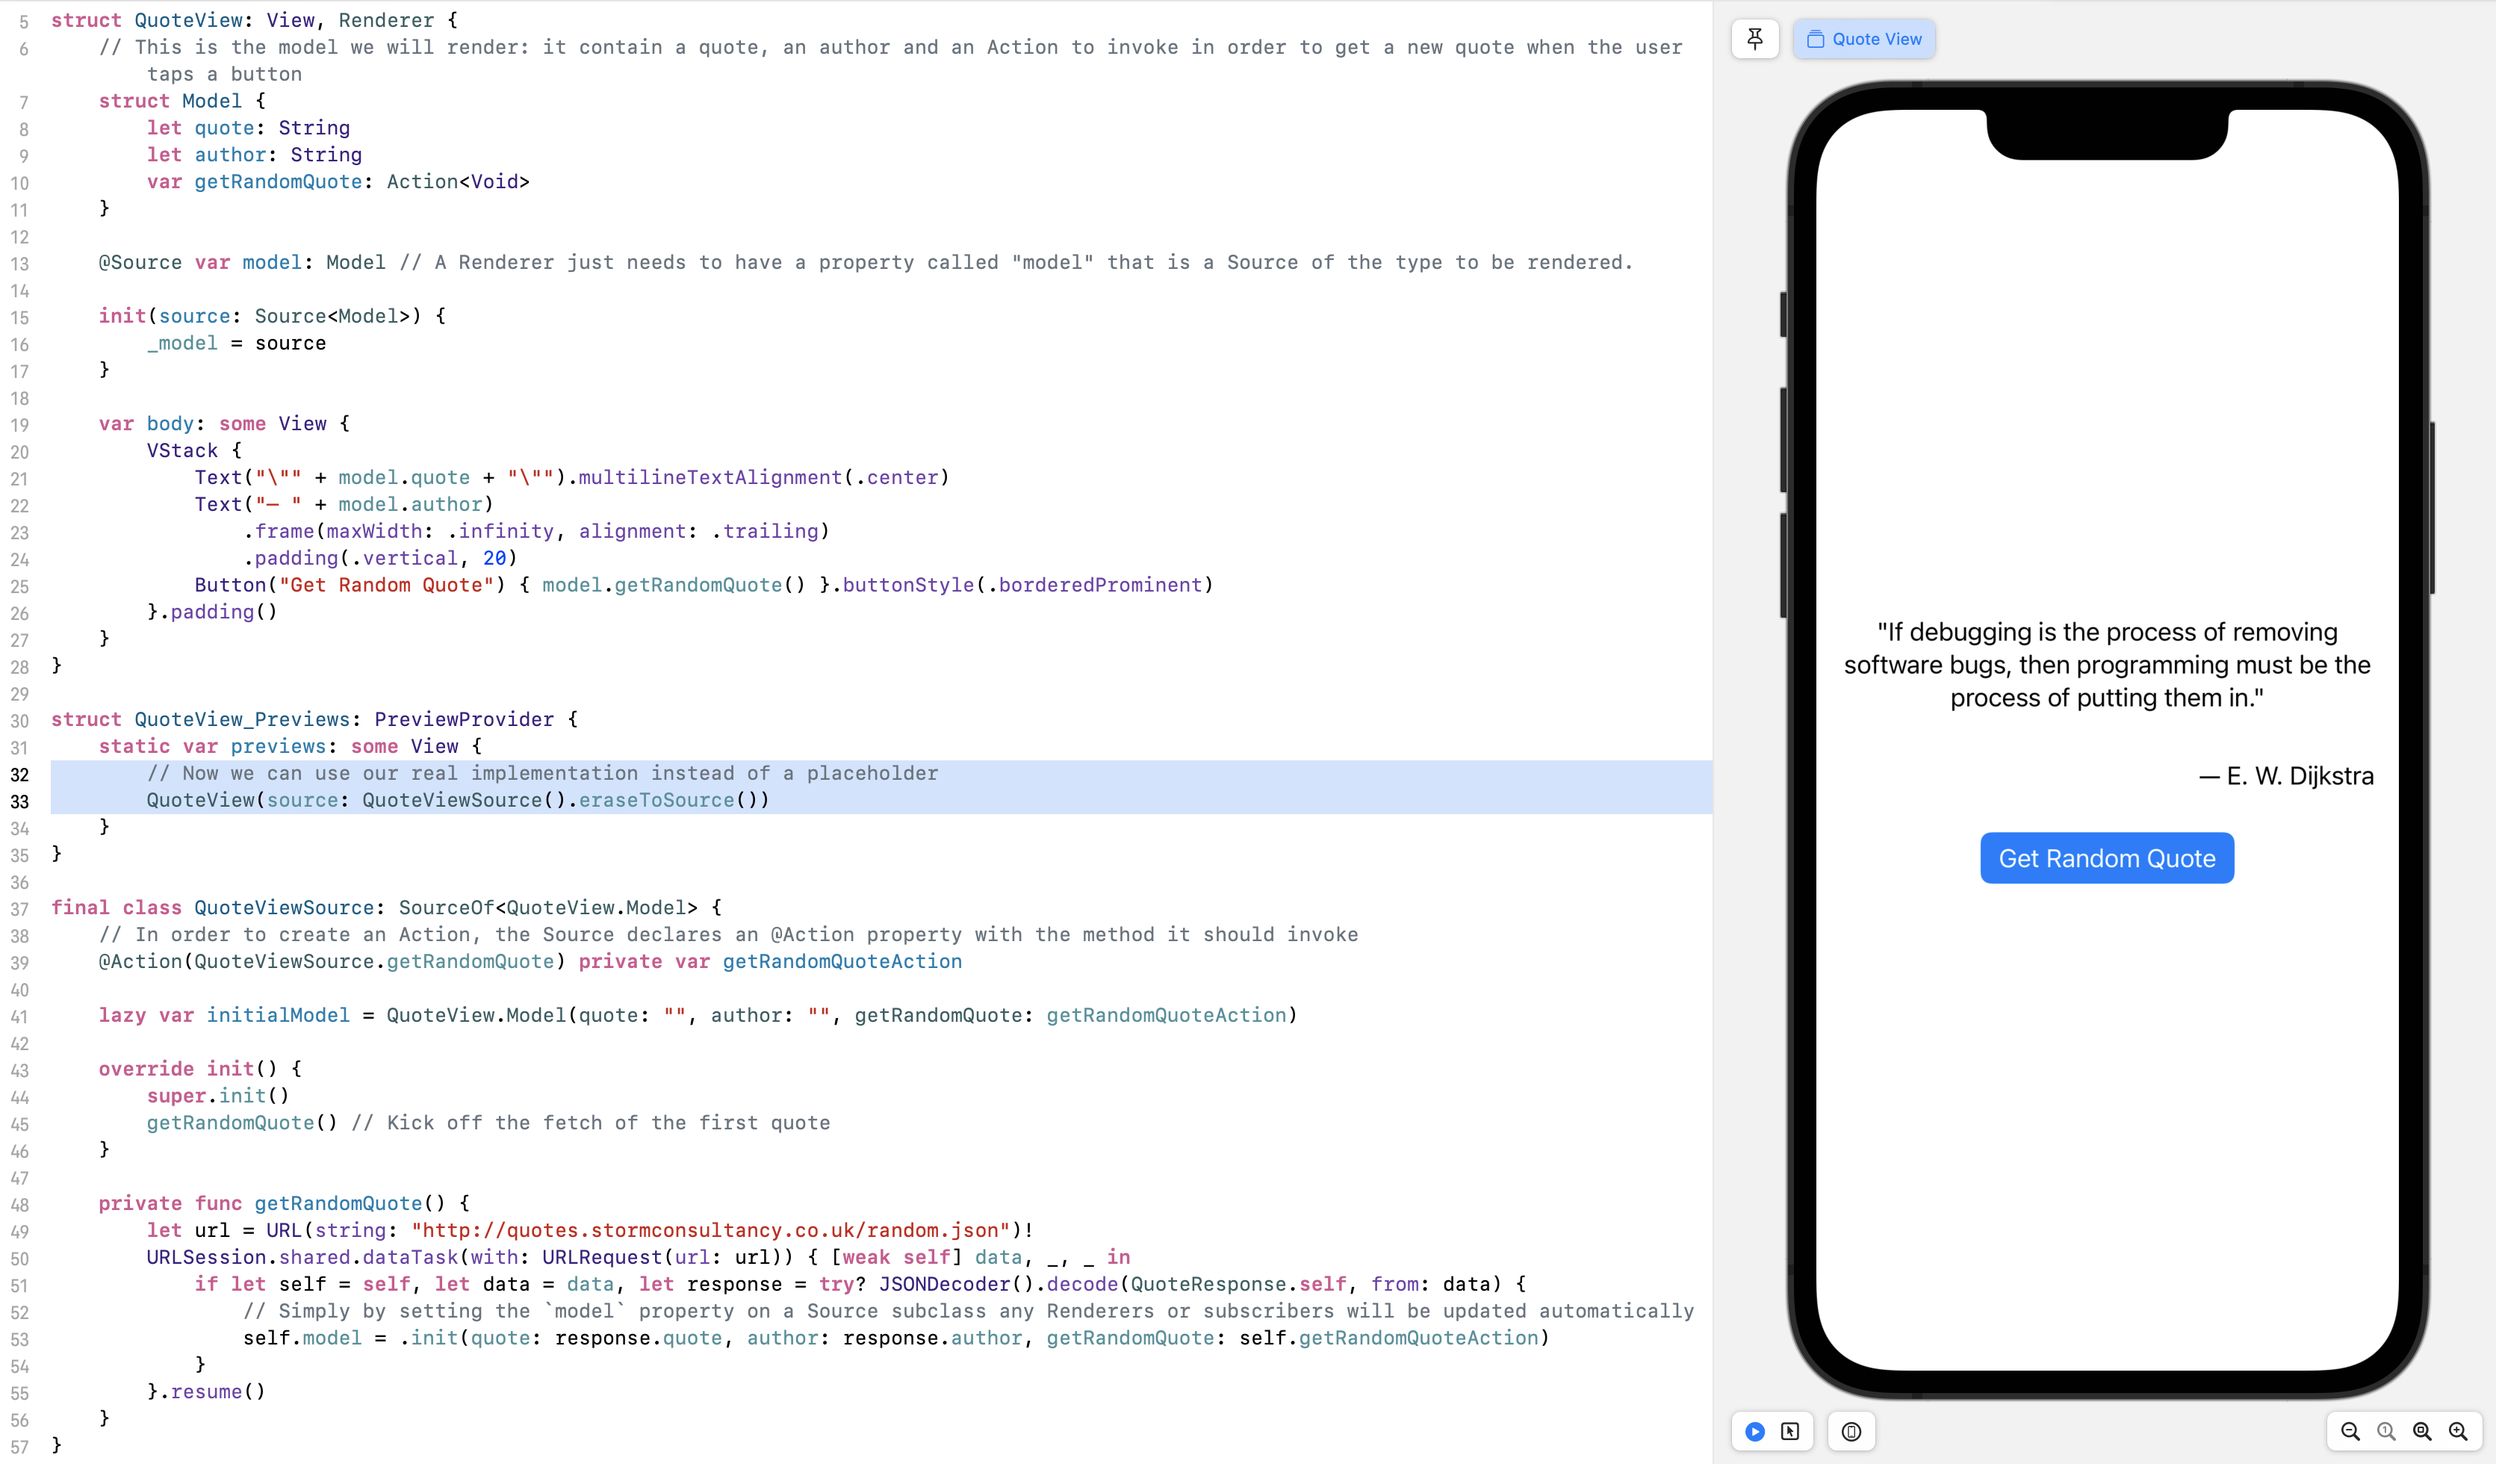
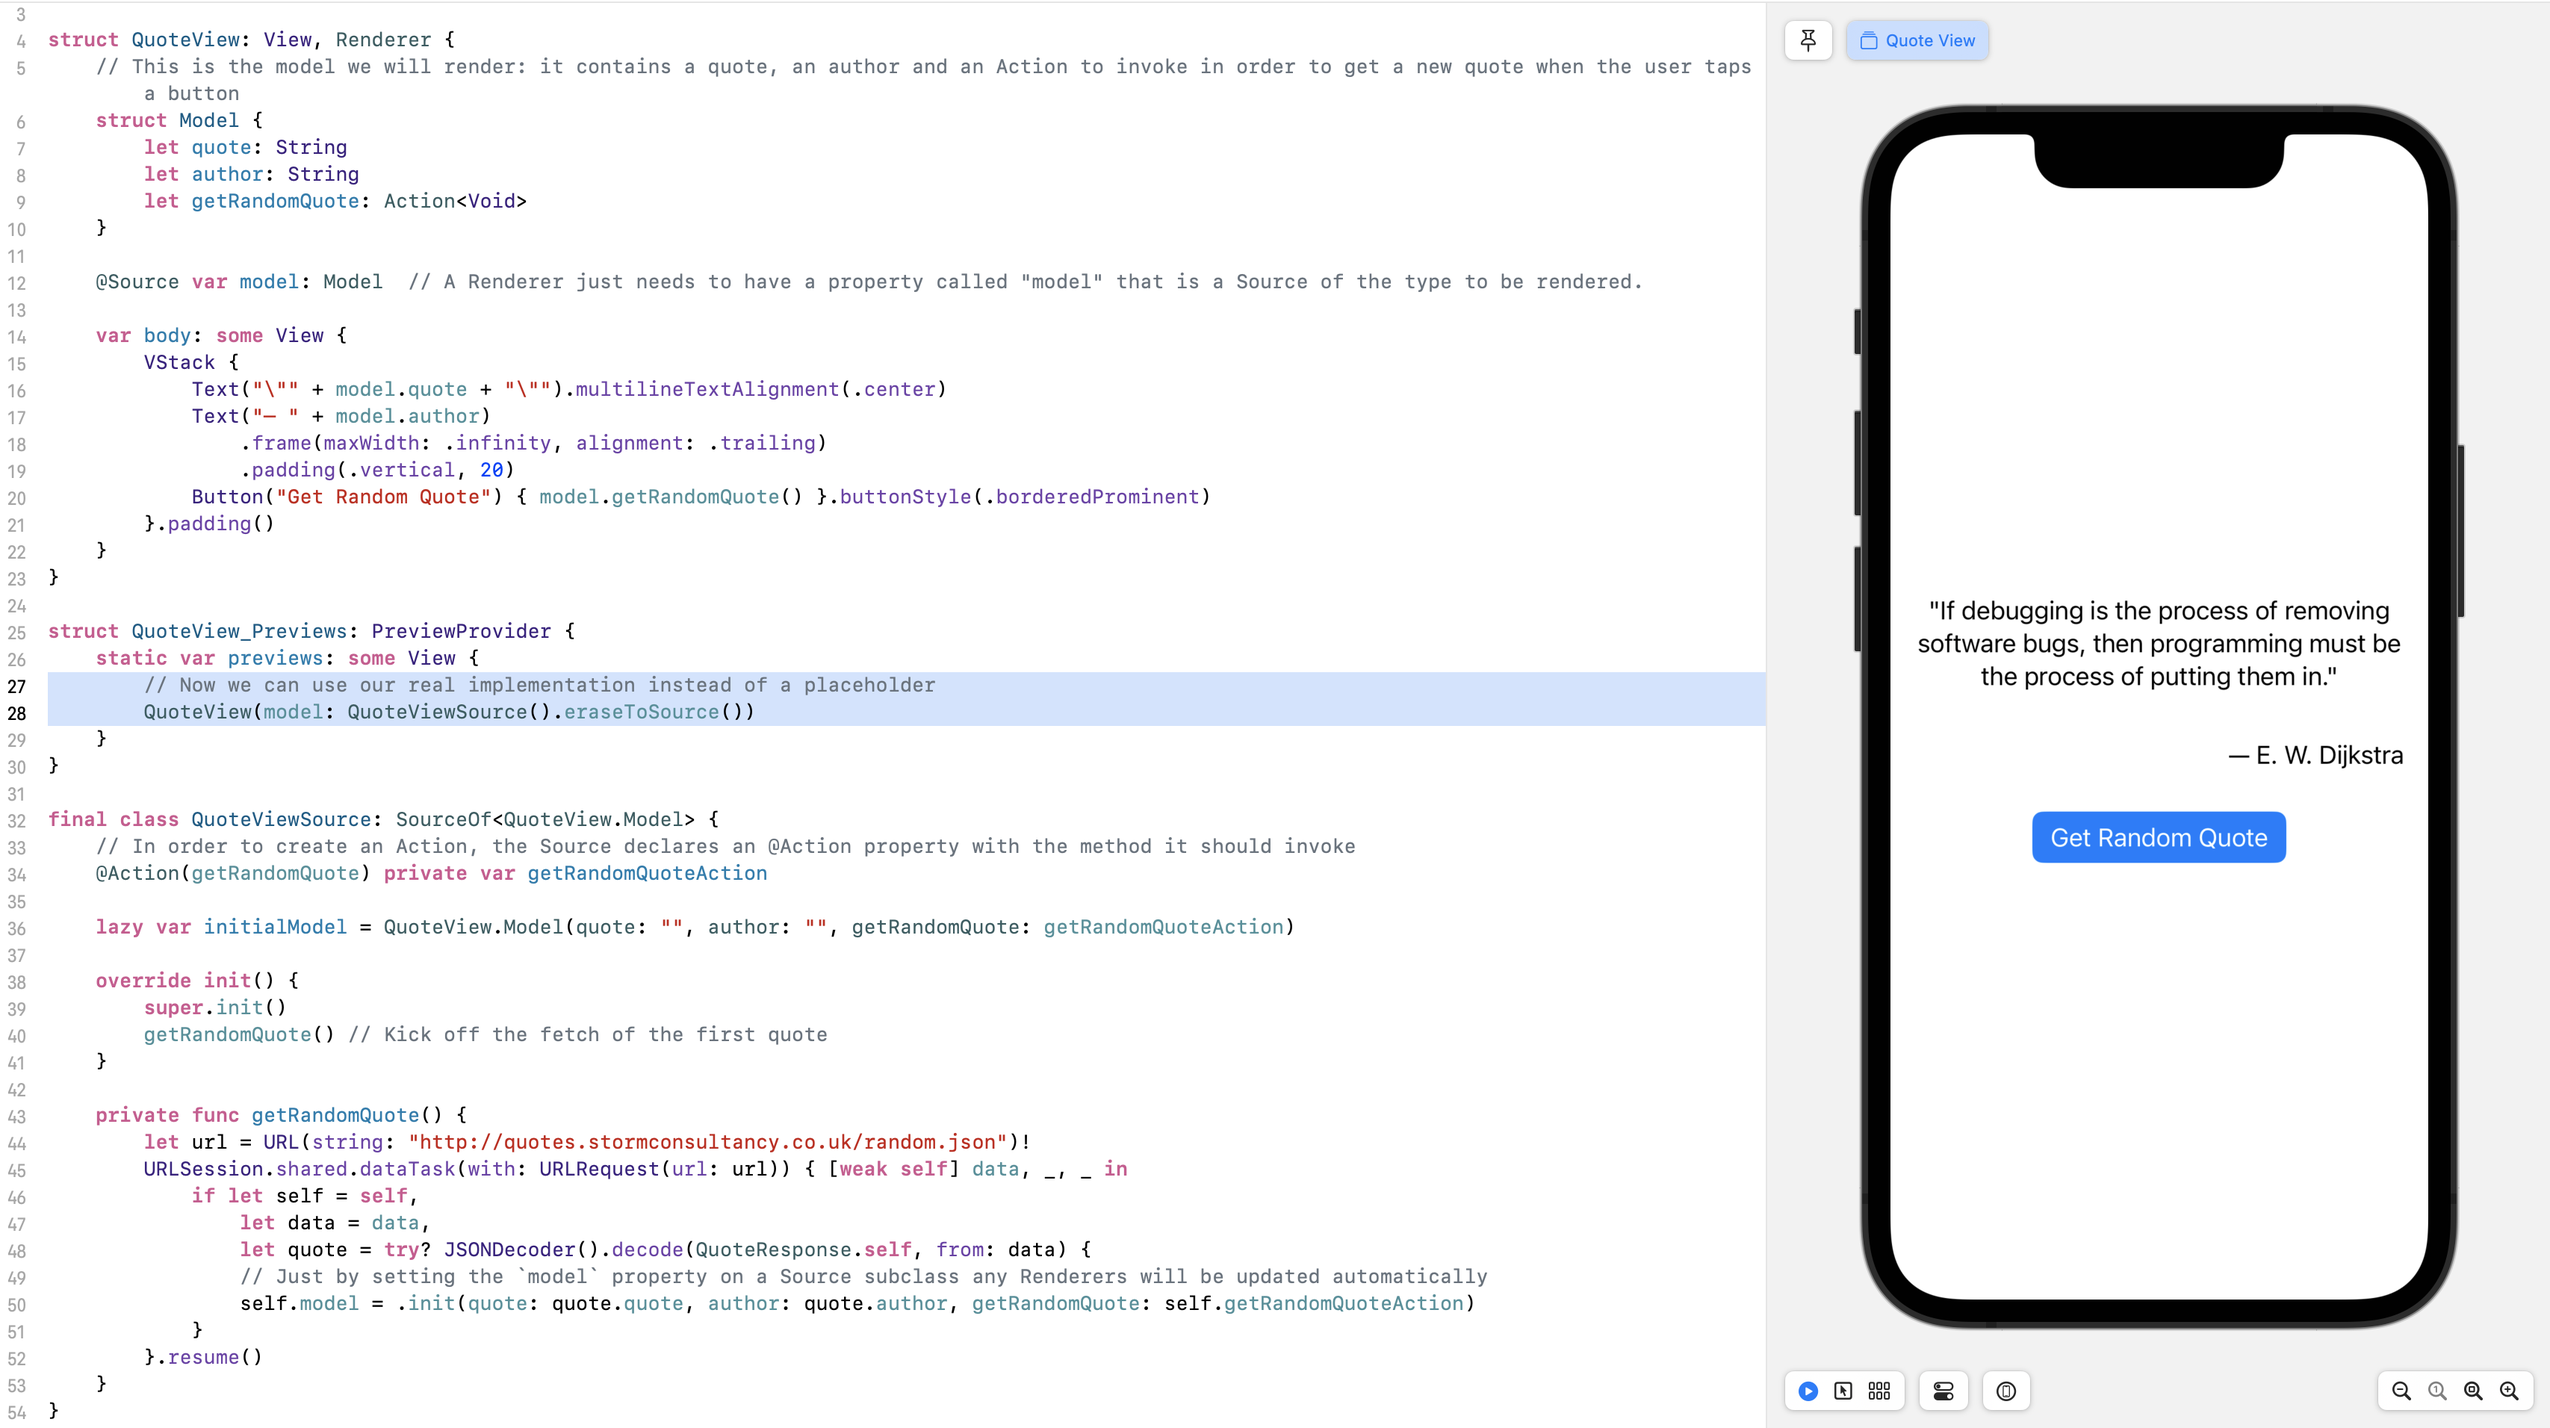
Updated Readme example code

diff --git a/README.md b/README.md
@@ -29,12 +29,8 @@ struct QuoteView: View, Renderer {
     let getRandomQuote: Action<Void>
   }
 
-    // A Renderer just needs to have a property called "model" that is a Source of the type to be rendered.
+  // A Renderer just needs to have a property called "model" that is a Source of the type to be rendered.
   @Source var model: Model
-
-  init(source: Source<Model>) {
-      _model = source
-  }
 
   var body: some View {
     VStack {
